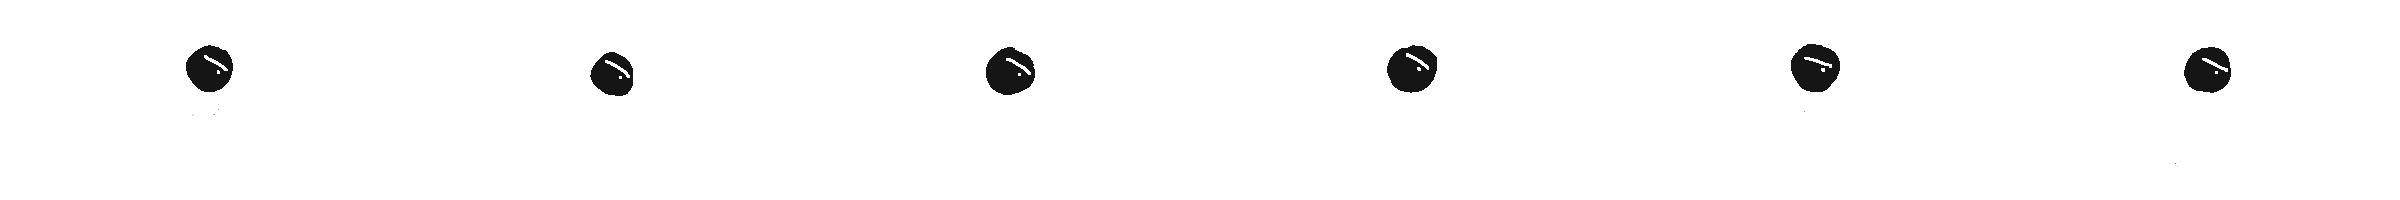
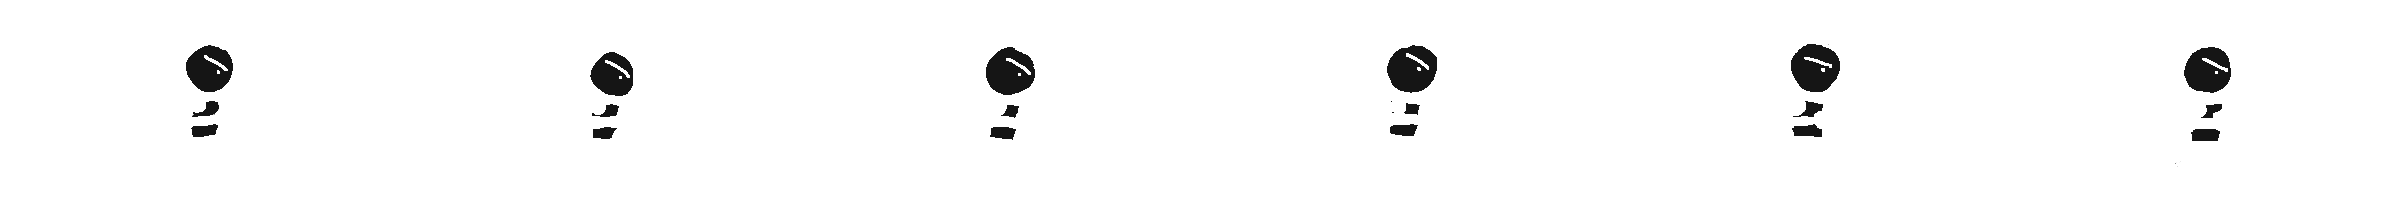
jab png

diff --git a/FightingGameProject/FightingGameProject/Input.h b/FightingGameProject/FightingGameProject/Input.h
@@ -13,6 +13,7 @@ namespace RB
 		bool Pressed_Down = false;
 
 		bool Pressed_D = false;
+		bool Pressed_T = false;
 
 		bool Queued_Left = false;
 		bool Queued_Right = false;
@@ -20,6 +21,7 @@ namespace RB
 		bool Queued_Down = false;
 
 		bool Queued_D = false;
+		bool Queued_T = false;
 
 	public:
 		void UpdateInput()
@@ -30,6 +32,7 @@ namespace RB
 			UpdateKey(Pressed_Down, Queued_Down, olc::Key::DOWN);
 
 			UpdateKey(Pressed_D, Queued_D, olc::Key::D);
+			UpdateKey(Pressed_T, Queued_T, olc::Key::T);
 		}
 
 		void UpdateKey(bool& pressed, bool& queued, olc::Key targetKey)
@@ -54,6 +57,7 @@ namespace RB
 			gameData.down = Down();
 
 			gameData.d = D();
+			gameData.t = T();
 		}
 
 		bool Left()
@@ -86,6 +90,12 @@ namespace RB
 			else { return false; }
 		}
 
+		bool T()
+		{
+			if (Pressed_T || Queued_T) { return true; }
+			else { return false; }
+		}
+
 		void ClearKeyQueues()
 		{
 			Queued_Left = false;
@@ -94,6 +104,7 @@ namespace RB
 			Queued_Down = false;
 
 			Queued_D = false;
+			Queued_T = false;
 		}
 	};
 }

diff --git a/FightingGameProject/FightingGameProject/FighterDecals.cpp b/FightingGameProject/FightingGameProject/FighterDecals.cpp
@@ -11,6 +11,8 @@ namespace RB
 		{
 		case FighterSpriteType::fighter_0_idle: return "PNG files/fighter_0_idle.png";
 		case FighterSpriteType::fighter_0_walk: return "PNG files/fighter_0_walk.png";
+		case FighterSpriteType::fighter_0_jab: return "PNG files/fighter_0_jab.png";
+
 		case FighterSpriteType::fighter_1_idle: return "PNG files/fighter_1_idle.png";
 		case FighterSpriteType::background_trees_20: return "PNG files/background_trees_20.png";
 		case FighterSpriteType::background_mountains: return "PNG files/background_mountains.png";

diff --git a/FightingGameProject/FightingGameProject/Fighter_0_Jab.h b/FightingGameProject/FightingGameProject/Fighter_0_Jab.h
@@ -1,0 +1,21 @@
+#pragma once
+#include "State.h"
+
+namespace RB
+{
+	class Fighter_0_Jab : public State
+	{
+	public:
+		void OnEnter(ObjData& objData, GameData& gameData) override
+		{
+			animationController.SetParams((int32_t)FighterSpriteType::fighter_0_jab, 2400, 200, 6, 1, 6);
+			animationController.status.nTransitionDelay = 5;
+			objData.SetSpriteSize({ 400, 230 });
+		}
+
+		void UpdateState(ObjData& objData, GameData& gameData) override
+		{
+
+		}
+	};
+}

diff --git a/FightingGameProject/FightingGameProject/Fighter_0_Idle.h b/FightingGameProject/FightingGameProject/Fighter_0_Idle.h
@@ -5,6 +5,7 @@
 namespace RB
 {
 	class Fighter_0_WalkForward;
+	class Fighter_0_Jab;
 
 	class Fighter_0_Idle : public State
 	{
@@ -18,6 +19,11 @@ namespace RB
 
 		void UpdateState(ObjData& objData, GameData& gameData) override
 		{
+			if (gameData.t)
+			{
+				nextState = State::NewState<Fighter_0_Jab>();
+			}
+
 			if (gameData.d)
 			{
 				nextState = State::NewState<Fighter_0_WalkForward>();

diff --git a/FightingGameProject/FightingGameProject/FightScene.cpp b/FightingGameProject/FightingGameProject/FightScene.cpp
@@ -3,6 +3,7 @@
 //fighter states
 #include "Fighter_0_Idle.h"
 #include "Fighter_0_WalkForward.h"
+#include "Fighter_0_Jab.h"
 #include "Fighter_1_Idle.h"
 
 //background states

diff --git a/FightingGameProject/FightingGameProject/FighterSpriteType.h b/FightingGameProject/FightingGameProject/FighterSpriteType.h
@@ -6,6 +6,7 @@ namespace RB
 	{
 		fighter_0_idle,
 		fighter_0_walk,
+		fighter_0_jab,
 
 		fighter_1_idle,
 		background_trees_20,

diff --git a/FightingGameProject/FightingGameProject/GameData.h b/FightingGameProject/FightingGameProject/GameData.h
@@ -14,5 +14,6 @@ namespace RB
 		bool down = false;
 
 		bool d = false;
+		bool t = false;
 	};
 }
